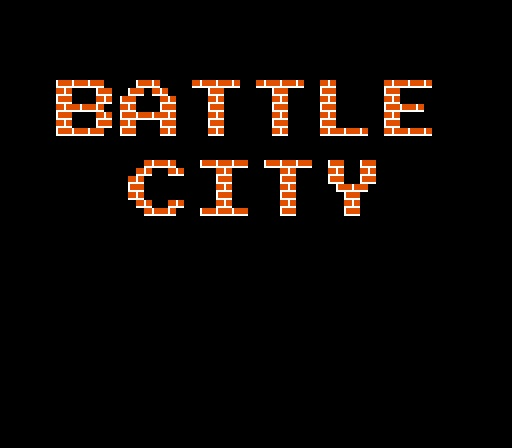
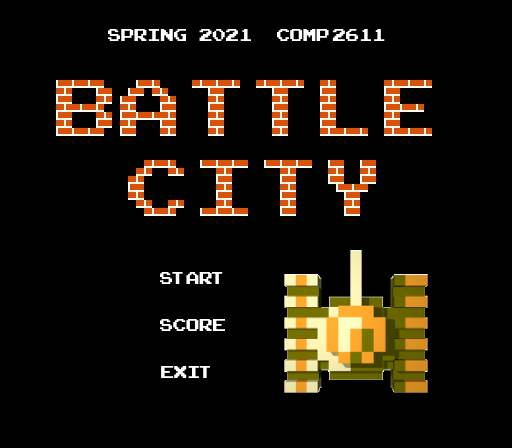
non-controllable menu screen & asm bug fix

diff --git a/modify_mars/mars_src/mars/ext/mine/MenuScreen.java b/modify_mars/mars_src/mars/ext/mine/MenuScreen.java
@@ -14,16 +14,30 @@ public class MenuScreen extends JFrame {
     private String title = "Battle city(menu)";
 
     private class Bg extends JPanel {
+        private Image cursorImg;
         private Image image;
+        private int cursorIndex = 0;
+        private int cursorX = 118;
+        private int cursorY = 237;
 
         public Bg(Image image) {
+//            setup background image (assume selection screen must have background)
             this.image = image;
+        }
+
+        public void setCursorImg(Image cursorImg) {
+//            setup cursor image
+            this.cursorImg = cursorImg;
         }
 
         @Override
         protected void paintComponent(Graphics g) {
             super.paintComponent(g);
+//            draw the background
             g.drawImage(image, 0, 0, getWidth(), getHeight(), this);
+
+//            draw the cursor
+            g.drawImage(cursorImg, cursorX, cursorY, null);
         }
     }
 
@@ -39,9 +53,12 @@ public class MenuScreen extends JFrame {
 
     public void init() {
         File bgImg = new File("game/images/menu.jpg");
+        File cursorImg = new File("game/images/cursor.png");
         BufferedImage bg = null;
+        BufferedImage cursor = null;
         try {
             bg = ImageIO.read(bgImg);
+            cursor = ImageIO.read(cursorImg);
         } catch (Exception e) {
             e.printStackTrace();
             System.out.println("Can not load background image");
@@ -50,7 +67,8 @@ public class MenuScreen extends JFrame {
         Dimension d = new Dimension(width, height);
         setSize(d);
 
-        JPanel panel = new Bg(bg);
+        Bg panel = new Bg(bg);
+        panel.setCursorImg(cursor);
         add(panel);
 
         setVisible(true);
